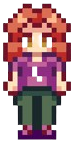
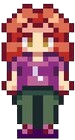
이미지 변경

diff --git a/src/stardewValley/A_KNC/Store.java b/src/stardewValley/A_KNC/Store.java
@@ -3,7 +3,7 @@ package stardewValley.A_KNC;
 import javax.swing.ImageIcon;
 import javax.swing.JLabel;
 
-public class Store extends JLabel{
+public class Store extends JLabel implements Runnable{
 
 	StardewValleyFrame mContext;
 	
@@ -18,7 +18,8 @@ public class Store extends JLabel{
 	private int carrotEach;
 	private int berryEach;
 	
-	private ImageIcon player;
+	private ImageIcon seller;
+	private ImageIcon sellerOn;
 	
 	public Store(StardewValleyFrame mContext) {
 		initData();
@@ -32,7 +33,9 @@ public class Store extends JLabel{
 		x = 1000;
 		y = 200;
 		
-		player = new ImageIcon("img/seller.png");
+		seller = new ImageIcon("img/seller.png");
+		sellerOn = new ImageIcon("img/sellerOn.png");
+		
 		
 		parsnipEach = (int)(Math.random()*1000) + 500;
 		carrotEach = (int)(Math.random()*1000) + 500;
@@ -44,9 +47,9 @@ public class Store extends JLabel{
 	}
 	
 	private void setInitLayout() {
-		this.setIcon(player);
+		this.setIcon(seller);
 		this.setLocation(x, y);
-		this.setSize(100, 140);
+		this.setSize(100, 180);
 	}
 	
 	private void initThread() {
@@ -137,6 +140,21 @@ public class Store extends JLabel{
 
 	public void setBerryEach(int berryEach) {
 		this.berryEach = berryEach;
+	}
+	
+	public ImageIcon getSeller() {
+		return seller;
+	}
+
+	public ImageIcon getSellerOn() {
+		return sellerOn;
+	}
+	
+	@Override
+	public void run() {
+		parsnipEach = (int)(Math.random()*1000) + 500;
+		carrotEach = (int)(Math.random()*1000) + 500;
+		berryEach = (int)(Math.random()*1000) + 500;
 	}
 	
 	

diff --git a/src/stardewValley/A_KNC/Water.java b/src/stardewValley/A_KNC/Water.java
@@ -18,7 +18,8 @@ public class Water extends JLabel{
 	private int carrotEach;
 	private int berryEach;
 	
-	private ImageIcon giveWater;
+	private ImageIcon water;
+	private ImageIcon waterOn;
 	
 	public Water(StardewValleyFrame mContext) {
 		initData();
@@ -31,7 +32,8 @@ public class Water extends JLabel{
 		x = 750;
 		y = 560;
 		
-		giveWater = new ImageIcon("img/waterMan.png");
+		water = new ImageIcon("img/waterMan.png");
+		waterOn = new ImageIcon("img/waterManOn.png");
 		
 		parsnipEach = 0;
 		carrotEach = 0;
@@ -40,9 +42,9 @@ public class Water extends JLabel{
 	}
 	
 	private void setInitLayout() {
-		this.setIcon(giveWater);
+		this.setIcon(water);
 		this.setLocation(x, y);
-		this.setSize(100, 140);
+		this.setSize(100, 180);
 	}
 
 	public StardewValleyFrame getmContext() {
@@ -117,6 +119,14 @@ public class Water extends JLabel{
 
 	public void setBerryEach(int berryEach) {
 		this.berryEach = berryEach;
+	}
+
+	public ImageIcon getWater() {
+		return water;
+	}
+
+	public ImageIcon getWaterOn() {
+		return waterOn;
 	}
 	
 	

diff --git a/src/stardewValley/A_KNC/Keeper.java b/src/stardewValley/A_KNC/Keeper.java
@@ -19,6 +19,7 @@ public class Keeper extends JLabel{
 	private int berryEach;
 	
 	private ImageIcon keeper;
+	private ImageIcon keeperOn;
 	
 	public Keeper(StardewValleyFrame mContext) {
 		initData();
@@ -32,6 +33,7 @@ public class Keeper extends JLabel{
 		y = 200;
 		
 		keeper = new ImageIcon("img/keeper.png");
+		keeperOn = new ImageIcon("img/keeperOn.png");
 		
 		parsnipEach = 0;
 		carrotEach = 0;
@@ -42,7 +44,7 @@ public class Keeper extends JLabel{
 	private void setInitLayout() {
 		this.setIcon(keeper);
 		this.setLocation(x, y);
-		this.setSize(100, 140);
+		this.setSize(100, 180);
 	}
 
 	public StardewValleyFrame getmContext() {
@@ -117,6 +119,14 @@ public class Keeper extends JLabel{
 
 	public void setBerryEach(int berryEach) {
 		this.berryEach = berryEach;
+	}
+
+	public ImageIcon getKeeper() {
+		return keeper;
+	}
+
+	public ImageIcon getKeeperOn() {
+		return keeperOn;
 	}
 	
 	

diff --git a/src/stardewValley/A_KNC/backgroundPlayerMapService.java b/src/stardewValley/A_KNC/backgroundPlayerMapService.java
@@ -97,14 +97,20 @@ public class backgroundPlayerMapService implements Runnable {
 			} else if (storeX < gap && storeY < gap) {
 //				System.out.println("멈춰~~~~~~~!");
 				player.setSellParsnip(true);
+				store.setIcon(store.getSellerOn());
 //				System.out.println(player.isSellParsnip());
 			} else if (keeperX < gap && keeperY < gap) {
 //				System.out.println("멈춰~~~~~~~!");
+				keeper.setIcon(keeper.getKeeperOn());
 			} else if (waterX < gap && waterY < gap) {
 //				System.out.println("멈춰~~~~~~~!");
+				water.setIcon(water.getWaterOn());
 			} else {
 				notWallCrash();
 				player.setSellParsnip(false);
+				store.setIcon(store.getSeller());
+				keeper.setIcon(keeper.getKeeper());
+				water.setIcon(water.getWater());
 			}
 
 			

diff --git a/src/stardewValley/A_KNC/StardewValleyFrame.java b/src/stardewValley/A_KNC/StardewValleyFrame.java
@@ -41,6 +41,7 @@ public class StardewValleyFrame extends JFrame {
 		keeper = new Keeper(mContext);
 		water = new Water(mContext);
 		player = new Player(mContext, store, keeper, water);
+		new Thread(store).start();
 	}
 
 	private void setInitLayout() {
